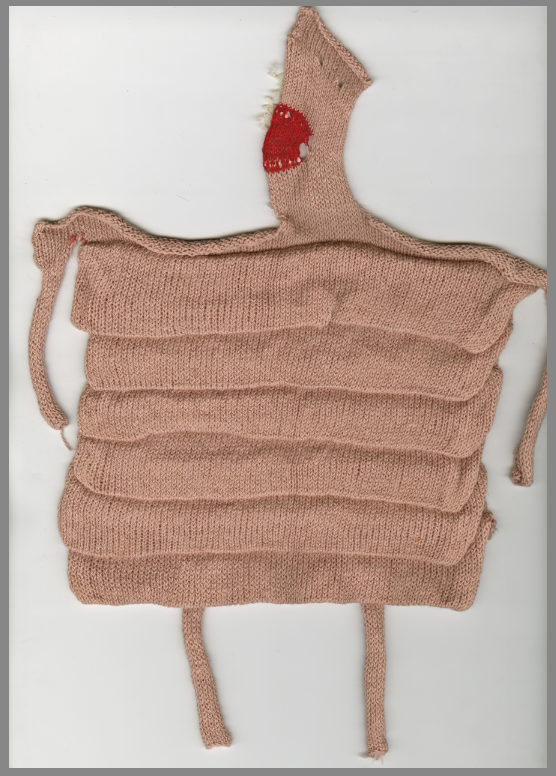
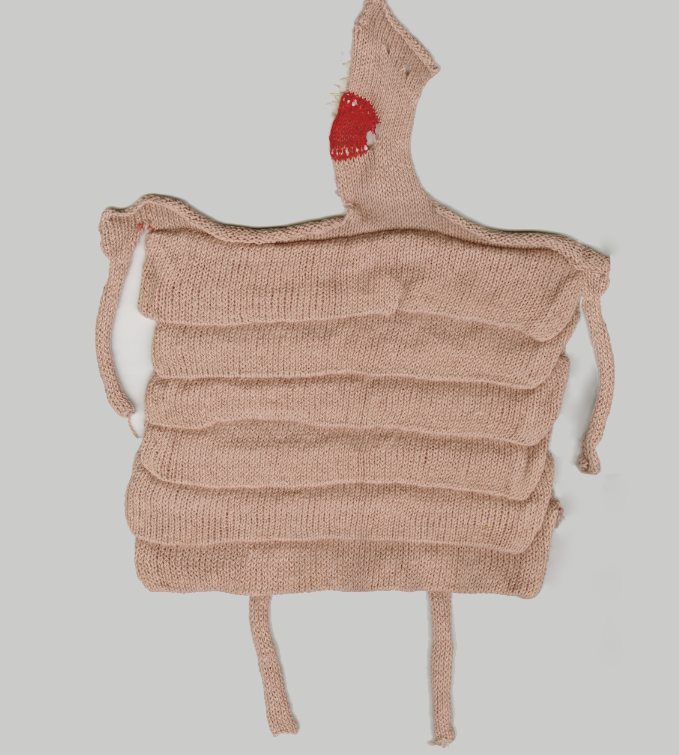
Continue updating portfolio and fixing photos

diff --git a/app/config/images_index.js b/app/config/images_index.js
@@ -1,53 +1,12 @@
 import HUPPAH from 'Config/portfolio_data/huppah';
 import SKETCHBOOK from 'Config/portfolio_data/sketchbook';
 import PARADE from 'Config/portfolio_data/parade';
+import EYES from 'Config/portfolio_data/eyes';
+import KNIT_PARADE from 'Config/portfolio_data/knit_parade';
 
 const PORTFOLIO = [
-  {
-    title: 'Lolita',
-    blurredIndex: require('Images/portfolio_index/lolita.png'),
-    indexAltText: 'Detail of Lolita, Oil painting',
-    inFocusIndex: '',
-    largeAsset: require('Images/show/lolita.png'),
-    additionalImages: [],
-    year: '2007',
-    description: '',
-    tags: ['oil', 'painting'],
-    medium: 'Oil on linen',
-    categories: ['PAINTING', '2D'],
-    size: '11in x 14in',
-    slug: 'lolita'
-  },
-  {
-    title: 'Eyes',
-    blurredIndex: require('Images/portfolio_index/eyes.png'),
-    indexAltText: 'Detail of Eyes, Digital Repeat',
-    inFocusIndex: require('Images/portfolio_index/eyes_focus.png'),
-    largeAsset: require('Images/show/eyes.png'),
-    additionalImages: [],
-    year: '2008',
-    description: '',
-    tags: [],
-    medium: 'Adobe Illustrator / U4ia',
-    categories: ['DIGITAL REPEAT', '2D'],
-    size: 'Dimensions variable',
-    slug: 'eyes'
-  },
-  {
-    title: 'Knit Parade',
-    blurredIndex: require('Images/portfolio_index/knit_parade.png'),
-    indexAltText: 'Detail of Knit Parade, Digital Repeat',
-    inFocusIndex: require('Images/portfolio_index/knit_parade_focus.png'),
-    largeAsset: require('Images/show/knit_parade.png'),
-    additionalImages: [],
-    year: '2008',
-    description: '',
-    tags: [],
-    medium: 'U4ia',
-    categories: ['TEXTILES', 'DIGITAL REPEAT'],
-    size: 'Dimensions variable',
-    slug: 'knit-parade'
-  },
+  EYES,
+  KNIT_PARADE,
   {
     title: 'Study in Pleats',
     blurredIndex: require('Images/portfolio_index/fatguy.png'),
@@ -143,7 +102,7 @@ const PORTFOLIO = [
     blurredIndex: require('Images/portfolio_index/drawer1.png'),
     indexAltText: 'Detail of Found Object Still Life, Guoache',
     inFocusIndex: require('Images/portfolio_index/drawer1_focus.png'),
-    largeAsset: require('Images/show/drawer1.jpg'),
+    largeAsset: require('Images/show/drawer1.png'),
     additionalImages: [],
     year: '2006',
     description: '',
@@ -188,7 +147,7 @@ const PORTFOLIO = [
     blurredIndex: require('Images/portfolio_index/stones.png'),
     indexAltText: 'Detail of Painting of Collected Stones, Guoache',
     inFocusIndex: require('Images/portfolio_index/stones_focus.png'),
-    largeAsset: require('Images/show/stones.jpg'),
+    largeAsset: require('Images/show/stones.png'),
     additionalImages: [],
     year: '2006',
     description: '',
@@ -212,6 +171,21 @@ const PORTFOLIO = [
     categories: ['INSTALLATION', '3D'],
     size: '12ft x 12ft',
     slug: 'skull'
+  },
+  {
+    title: 'Lolita',
+    blurredIndex: require('Images/portfolio_index/lolita.png'),
+    indexAltText: 'Detail of Lolita, Oil painting',
+    inFocusIndex: '',
+    largeAsset: require('Images/show/lolita.png'),
+    additionalImages: [],
+    year: '2007',
+    description: '',
+    tags: ['oil', 'painting'],
+    medium: 'Oil on linen',
+    categories: ['PAINTING', '2D'],
+    size: '11in x 14in',
+    slug: 'lolita'
   },
   PARADE,
   HUPPAH,

diff --git a/app/config/portfolio_data/knit_parade.js b/app/config/portfolio_data/knit_parade.js
@@ -1,0 +1,17 @@
+const KNIT_PARADE = {
+  title: 'Knit Parade',
+  blurredIndex: require('Images/portfolio_index/knit_parade.png'),
+  indexAltText: 'Detail of Knit Parade, Digital Repeat',
+  inFocusIndex: require('Images/portfolio_index/knit_parade_focus.png'),
+  largeAsset: require('Images/show/knit_parade.png'),
+  additionalImages: [],
+  year: '2008',
+  description: '',
+  tags: [],
+  medium: 'U4ia',
+  categories: ['TEXTILES', 'DIGITAL REPEAT'],
+  size: 'Dimensions variable',
+  slug: 'knit-parade'
+};
+
+export default KNIT_PARADE;

diff --git a/app/config/portfolio_data/eyes.js b/app/config/portfolio_data/eyes.js
@@ -1,0 +1,17 @@
+const EYES = {
+  title: 'Eyes',
+  blurredIndex: require('Images/portfolio_index/eyes.png'),
+  indexAltText: 'Detail of Eyes, Digital Repeat',
+  inFocusIndex: require('Images/portfolio_index/eyes_focus.png'),
+  largeAsset: require('Images/show/eyes.png'),
+  additionalImages: [],
+  year: '2008',
+  description: '',
+  tags: [],
+  medium: 'Adobe Illustrator / U4ia',
+  categories: ['DIGITAL REPEAT', '2D'],
+  size: 'Dimensions variable',
+  slug: 'eyes'
+};
+
+export default EYES;
